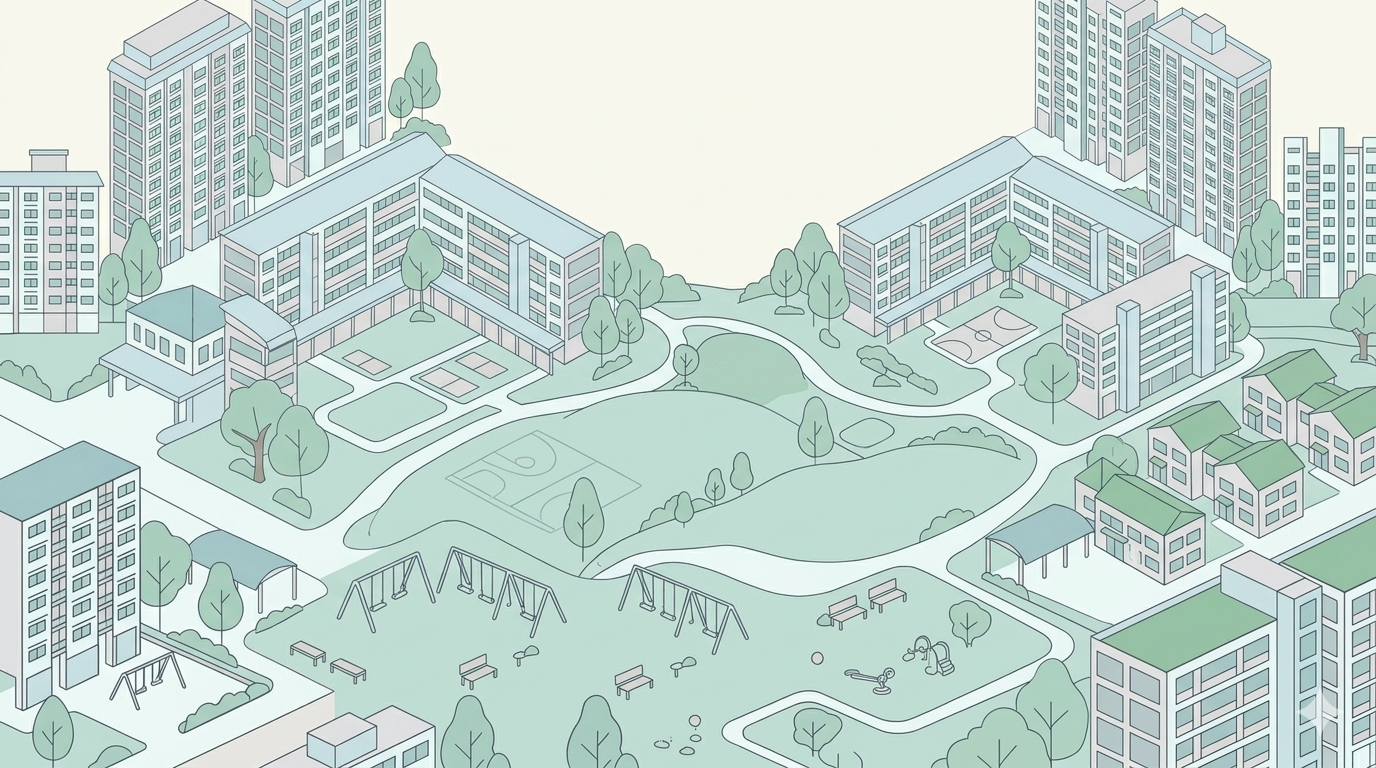
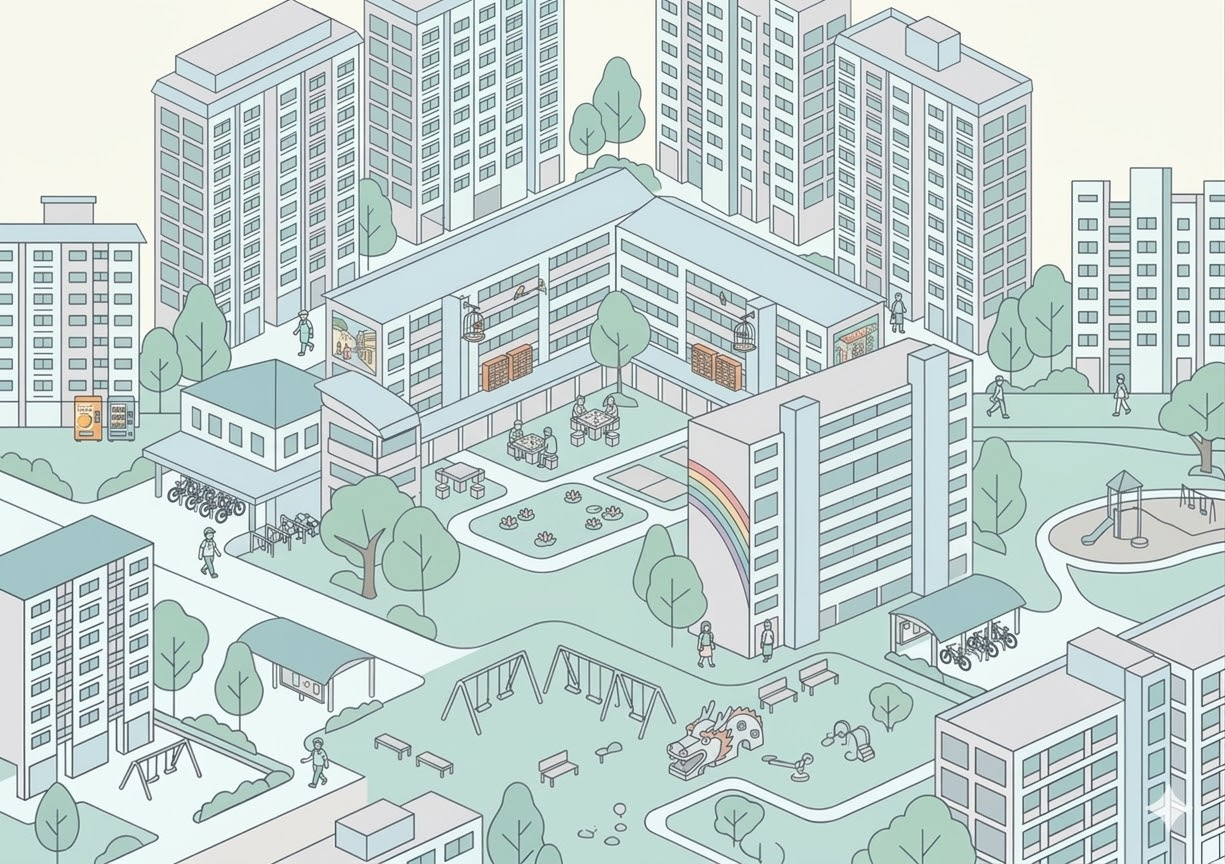
adding bg image

diff --git a/src/index.css b/src/index.css
@@ -21,6 +21,8 @@ body {
   padding: 0;
   min-width: 320px;
   min-height: 100vh;
+  background-image: url("./assets/hdb-background.png");
+  background-size: cover;
   background-position: center;
   background-repeat: no-repeat;
   background-attachment: fixed;
